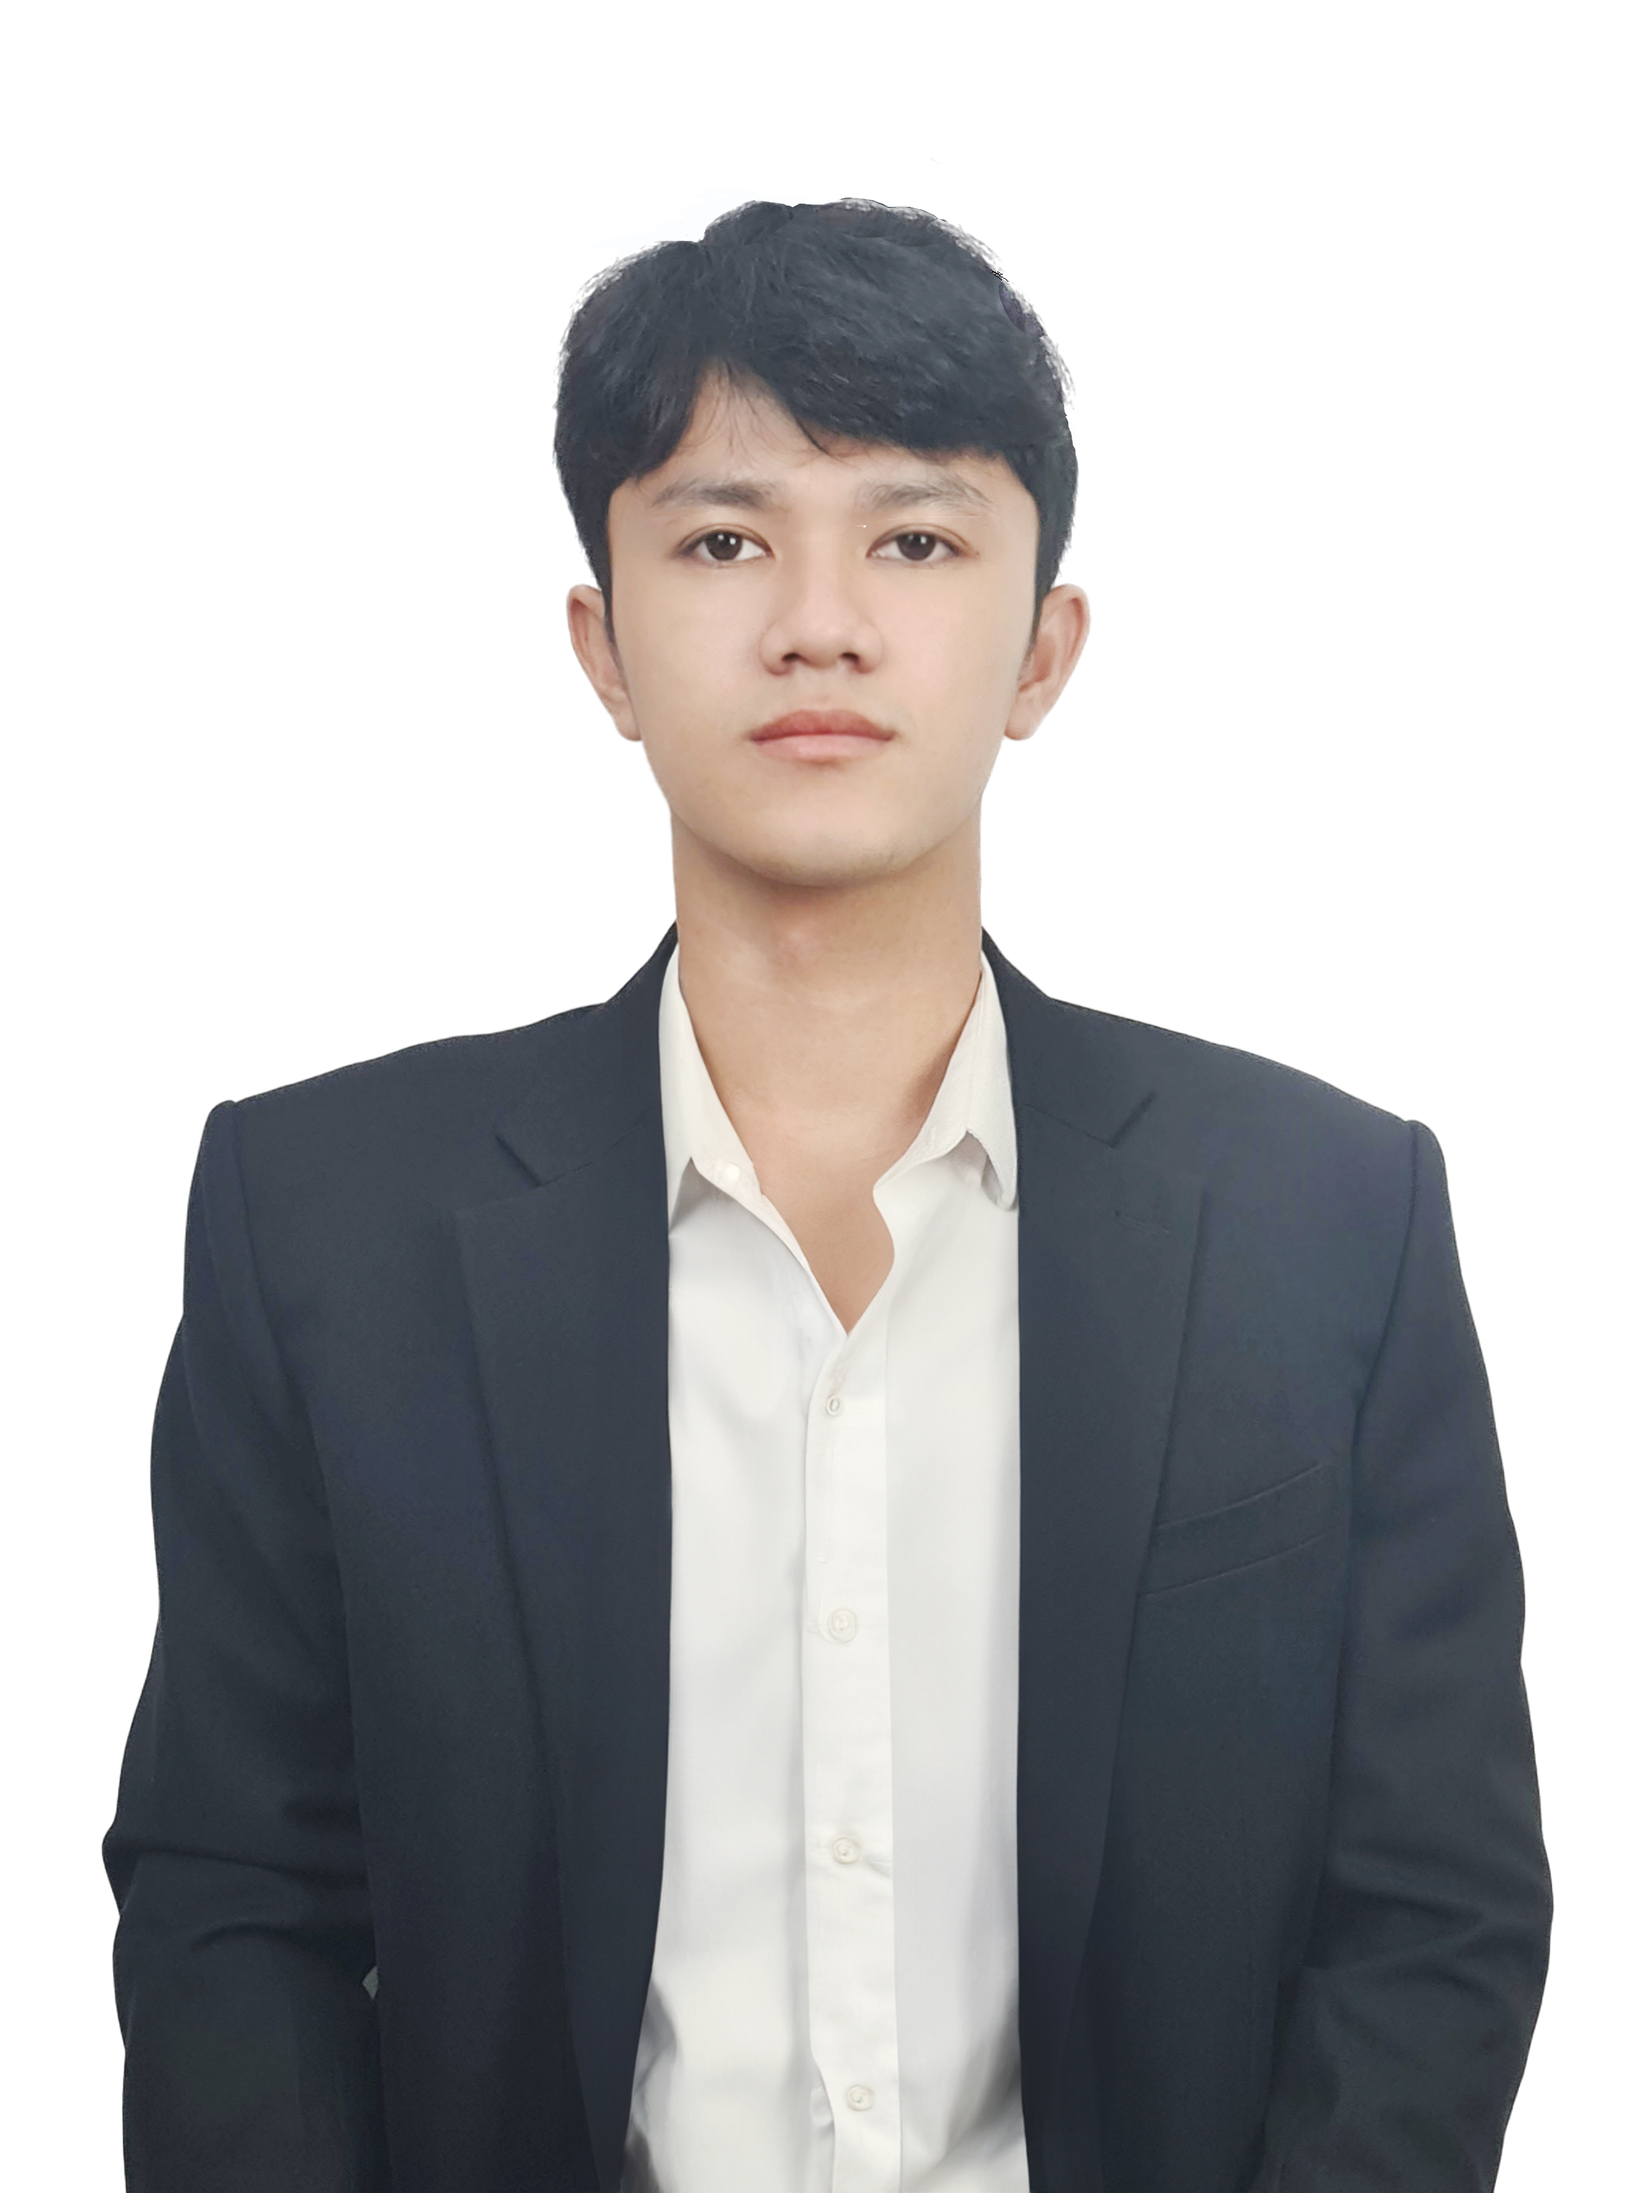
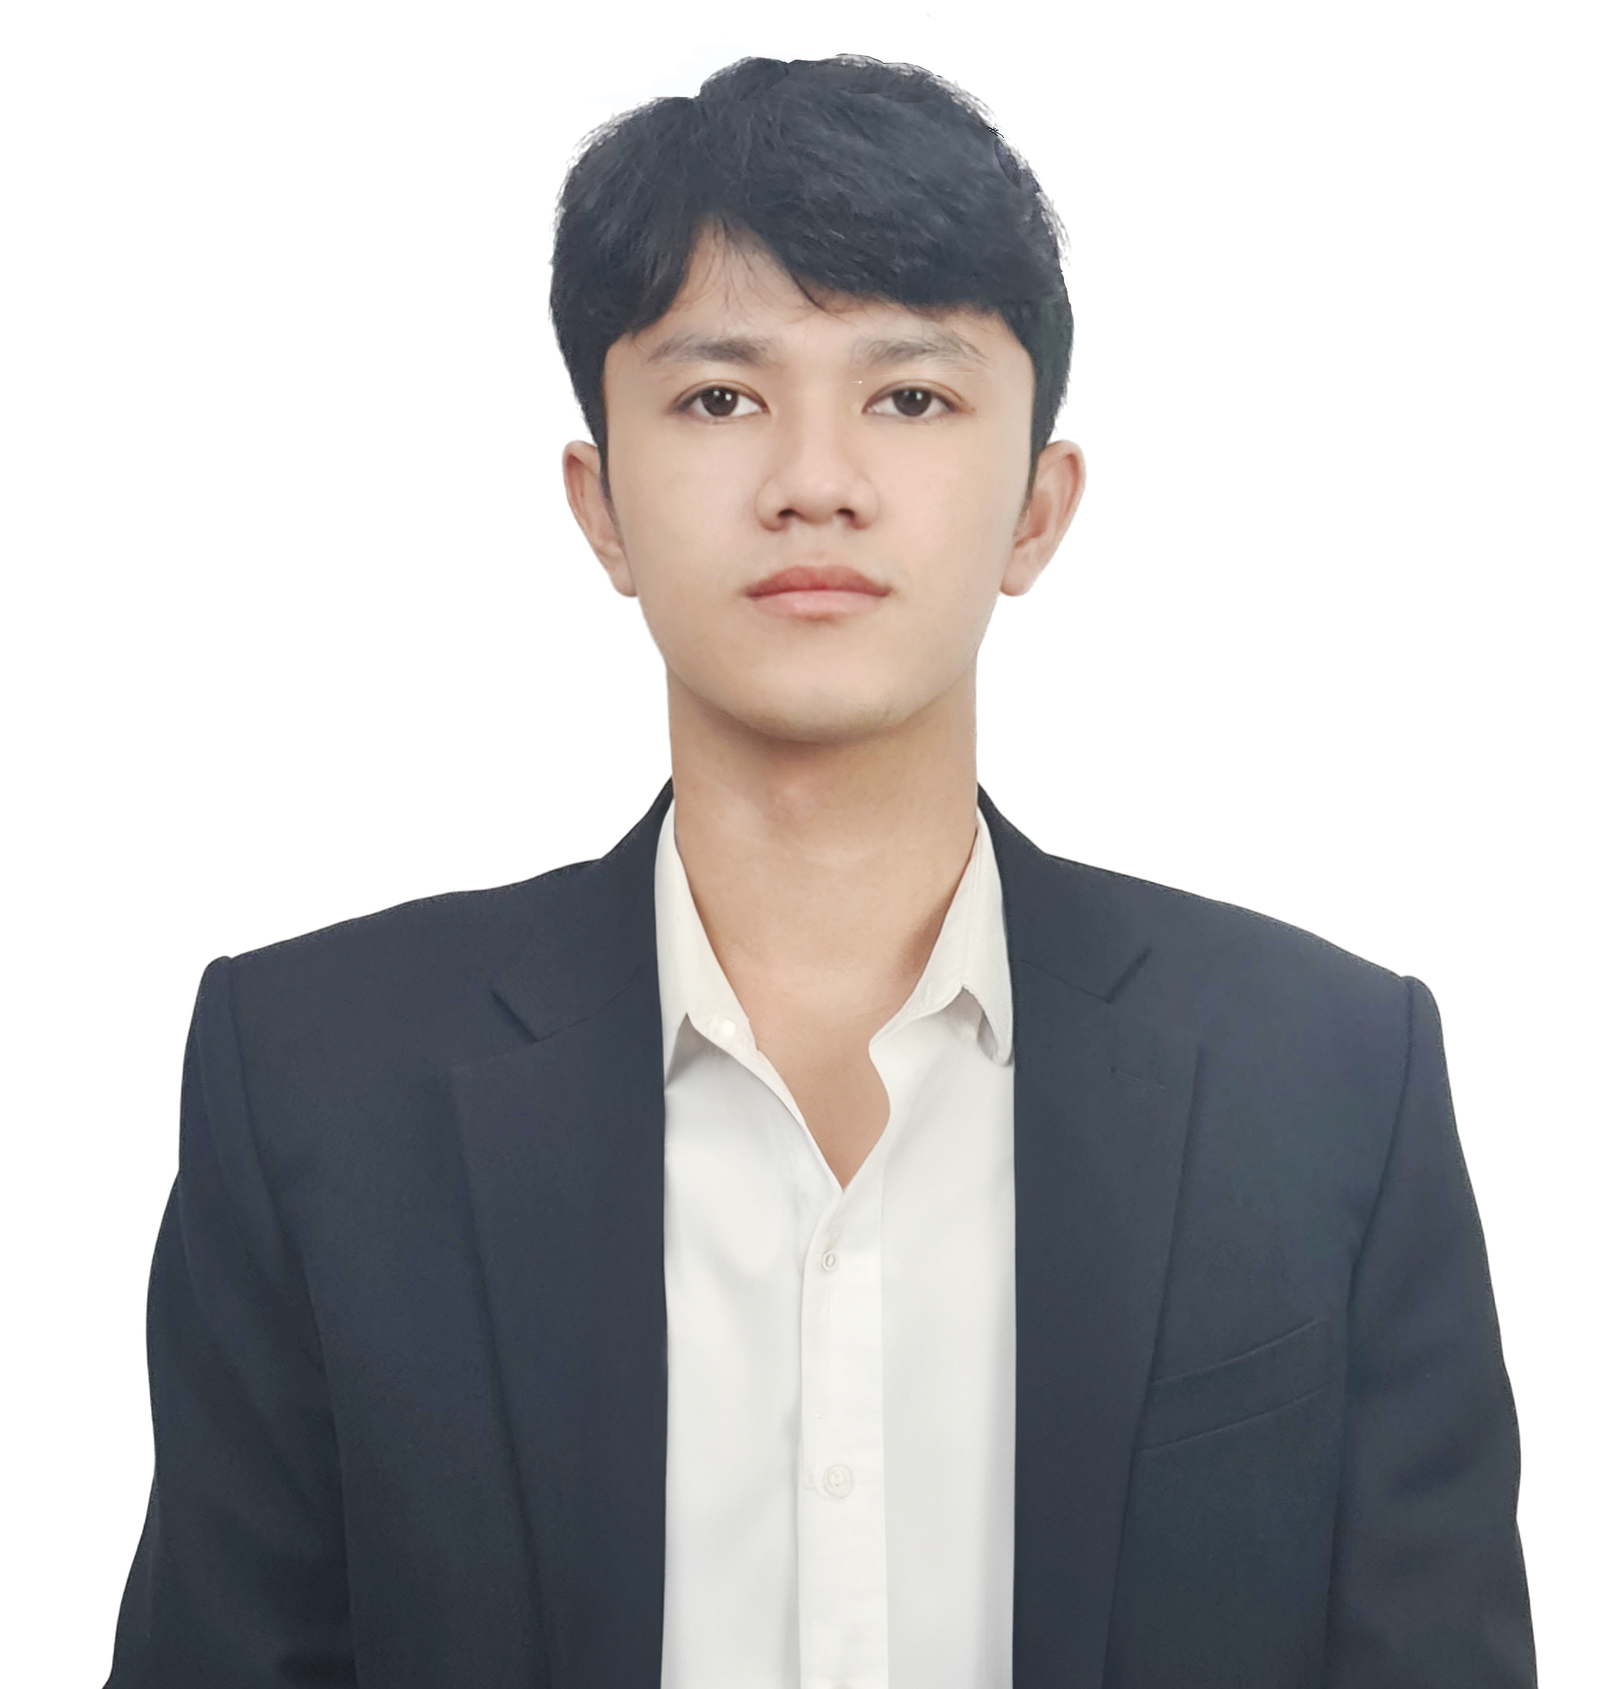
feature (UI) : add About section

diff --git a/src/components/sections/AboutSection.tsx b/src/components/sections/AboutSection.tsx
@@ -1,31 +1,35 @@
+import HeaderTitle from "../icon/HeaderTitle";
 import Image from "../Image";
+import Progress from "../Progress";
 
 
 const AboutSection = () => (
-  <div className="mt-[400px] py-16 px-4 flex bg-black justify-center">
+  <div className="mt-[400px] py-16 flex bg-white justify-center space-x-6">
     <div className="p-4">
       <Image src="/assets/images/avatar.png" size={500} alt="avatar" />
     </div>
-    <div className="text-white">
-      <h3 className="text-2xl font-semibold mb-4">About me</h3>
-      <p className="mb-6">
-        Lorem ipsum dolor sit amet consectetur adipisicing elit.
-        Officiis aliquam reprehenderit obcaecati iusto officia atque ea illo,
-        id quidem quod maiores placeat voluptatem quaerat dignissimos
-        ab asperiores, et quia ducimus?
+    <div className="text-black mt-6">
+      <HeaderTitle
+        color={"black"}
+        value={"About me."}/>
+      <p className="text-gray-400 pb-3">
+        WEBSITE DEVELOPER & AI INTEGRATION
       </p>
-      <dl className="grid grid-cols-2 gap-2">
-        <dt>Name:</dt>
-        <dd>Lanh</dd>
-        <dt>Age:</dt>
-        <dd>22</dd>
-        <dt>Address:</dt>
-        <dd>Vietnam</dd>
-        <dt>Phone Number:</dt>
-        <dd>03xxxxxxxx</dd>
-        <dt>Email:</dt>
-        <dd>hello@gmail.com</dd>
-      </dl>
+      <p className="mb-6 max-w-4xl text-gray-400 font-semibold">
+      My name is <span className="text-gray-600">Lanh</span>, and I am a software engineer with a strong passion for 
+      creating websites and applying AI technology to real-world solutions, 
+      aiming to deliver practical value and innovation to everyday life. 
+      I believe in the power of technology to transform ideas into impactful solutions. 
+      With a focus on crafting user-friendly websites and leveraging AI, I strive to bridge the gap
+       between innovation and practicality, creating experiences that truly make a difference.
+      </p>
+      <HeaderTitle
+        color={"black"}
+        value={"My Skills."}/>
+         <div className="flex flex-col space-y-16 pt-6">
+              <Progress value={90} title="Website Deloveloper" className="h-2" />
+              <Progress value={70} title="AI Integration" className="h-2" />
+          </div>
     </div>
   </div>
 );

diff --git a/src/components/Progress.tsx b/src/components/Progress.tsx
@@ -1,0 +1,41 @@
+import React, { useEffect, useState } from 'react'
+
+interface ProgressProps {
+  value: number
+  className?: string
+  title? : string
+}
+
+export default function Progress({ value, className = '' , title= 'Hello World'}: ProgressProps) {
+  const [width, setWidth] = useState(0)
+
+  useEffect(() => {
+    const timer = setTimeout(() => {
+      setWidth(value)
+    }, 1000)
+
+    return () => clearTimeout(timer)
+  }, [value])
+
+  return (
+    <div 
+      className={`relative w-full h-6 rounded bg-gray-200 overflow-hidden ${className}`}
+      role="progressbar"
+      aria-valuenow={value}
+      aria-valuemin={0}
+      aria-valuemax={100}
+    >
+      <div 
+        className="h-full bg-black transition-all rounded duration-500 ease-out relative text-white text-sm"
+        style={{ width: `${width}%` }}
+      >
+        <span className='absolute left-2 top-1/2 -translate-y-1/2'>
+          {title}
+        </span>
+        <span className='absolute right-2 top-1/2 -translate-y-1/2'>
+          {value}%
+        </span>
+      </div>
+    </div>
+  )
+}

diff --git a/src/components/sections/HeroSection.tsx b/src/components/sections/HeroSection.tsx
@@ -3,9 +3,9 @@ const HeroSection = () => (
     <div className="absolute inset-0 bg-black bg-opacity-70" />
     <div className="h-[500px] flex flex-col justify-center relative">
       <h2 className="self-center p-4 text-7xl font-semibold text-header">
-        Nguyen Ngoc Lanh
+        𝙉𝙜𝙪𝙮𝙚𝙣 𝙉𝙜𝙤𝙘 𝙇𝙖𝙣𝙝
       </h2>
-      <p className="self-center text-white p-4 text-2xl">
+      <p className="self-center text-white p-4 text-2xl font-sans">
         I am a Software Engineer
       </p>
     </div>

diff --git a/src/components/icon/HeaderTitle.tsx b/src/components/icon/HeaderTitle.tsx
@@ -1,0 +1,16 @@
+interface TitleProp{
+    as? : React.ElementType,
+    value? : string | null,
+    color? : string | null,
+    [x: string]: unknown; 
+}
+
+export default function HeaderTitle({as : Component =  'p', value, color, ...restProps}: TitleProp){
+    const textColor = color ?? "black";
+    return (
+        <Component className={`text-${textColor} text-2xl font-extrabold mb-4 font-display`}  {...restProps}>
+            {value}
+        </Component>
+    )
+
+}

diff --git a/tailwind.config.ts b/tailwind.config.ts
@@ -15,6 +15,10 @@ export default {
       },
       backgroundImage: {
         'backgroundmain': "url('/assets/images/bg.jpg')",
+      },
+      fontFamily:{
+        'display': ['Oswald', 'system-ui'],
+        'body': ['"Open Sans"', 'system-ui'],
       }
     },
   },

diff --git a/src/components/layout/sidebar.tsx b/src/components/layout/sidebar.tsx
@@ -1,5 +1,5 @@
 import Link from "../Link"
-import Icon from "../icon/icon"
+import Icon from "../icon/Icon"
 
 export default function Sidebar() {
     const menu = [
